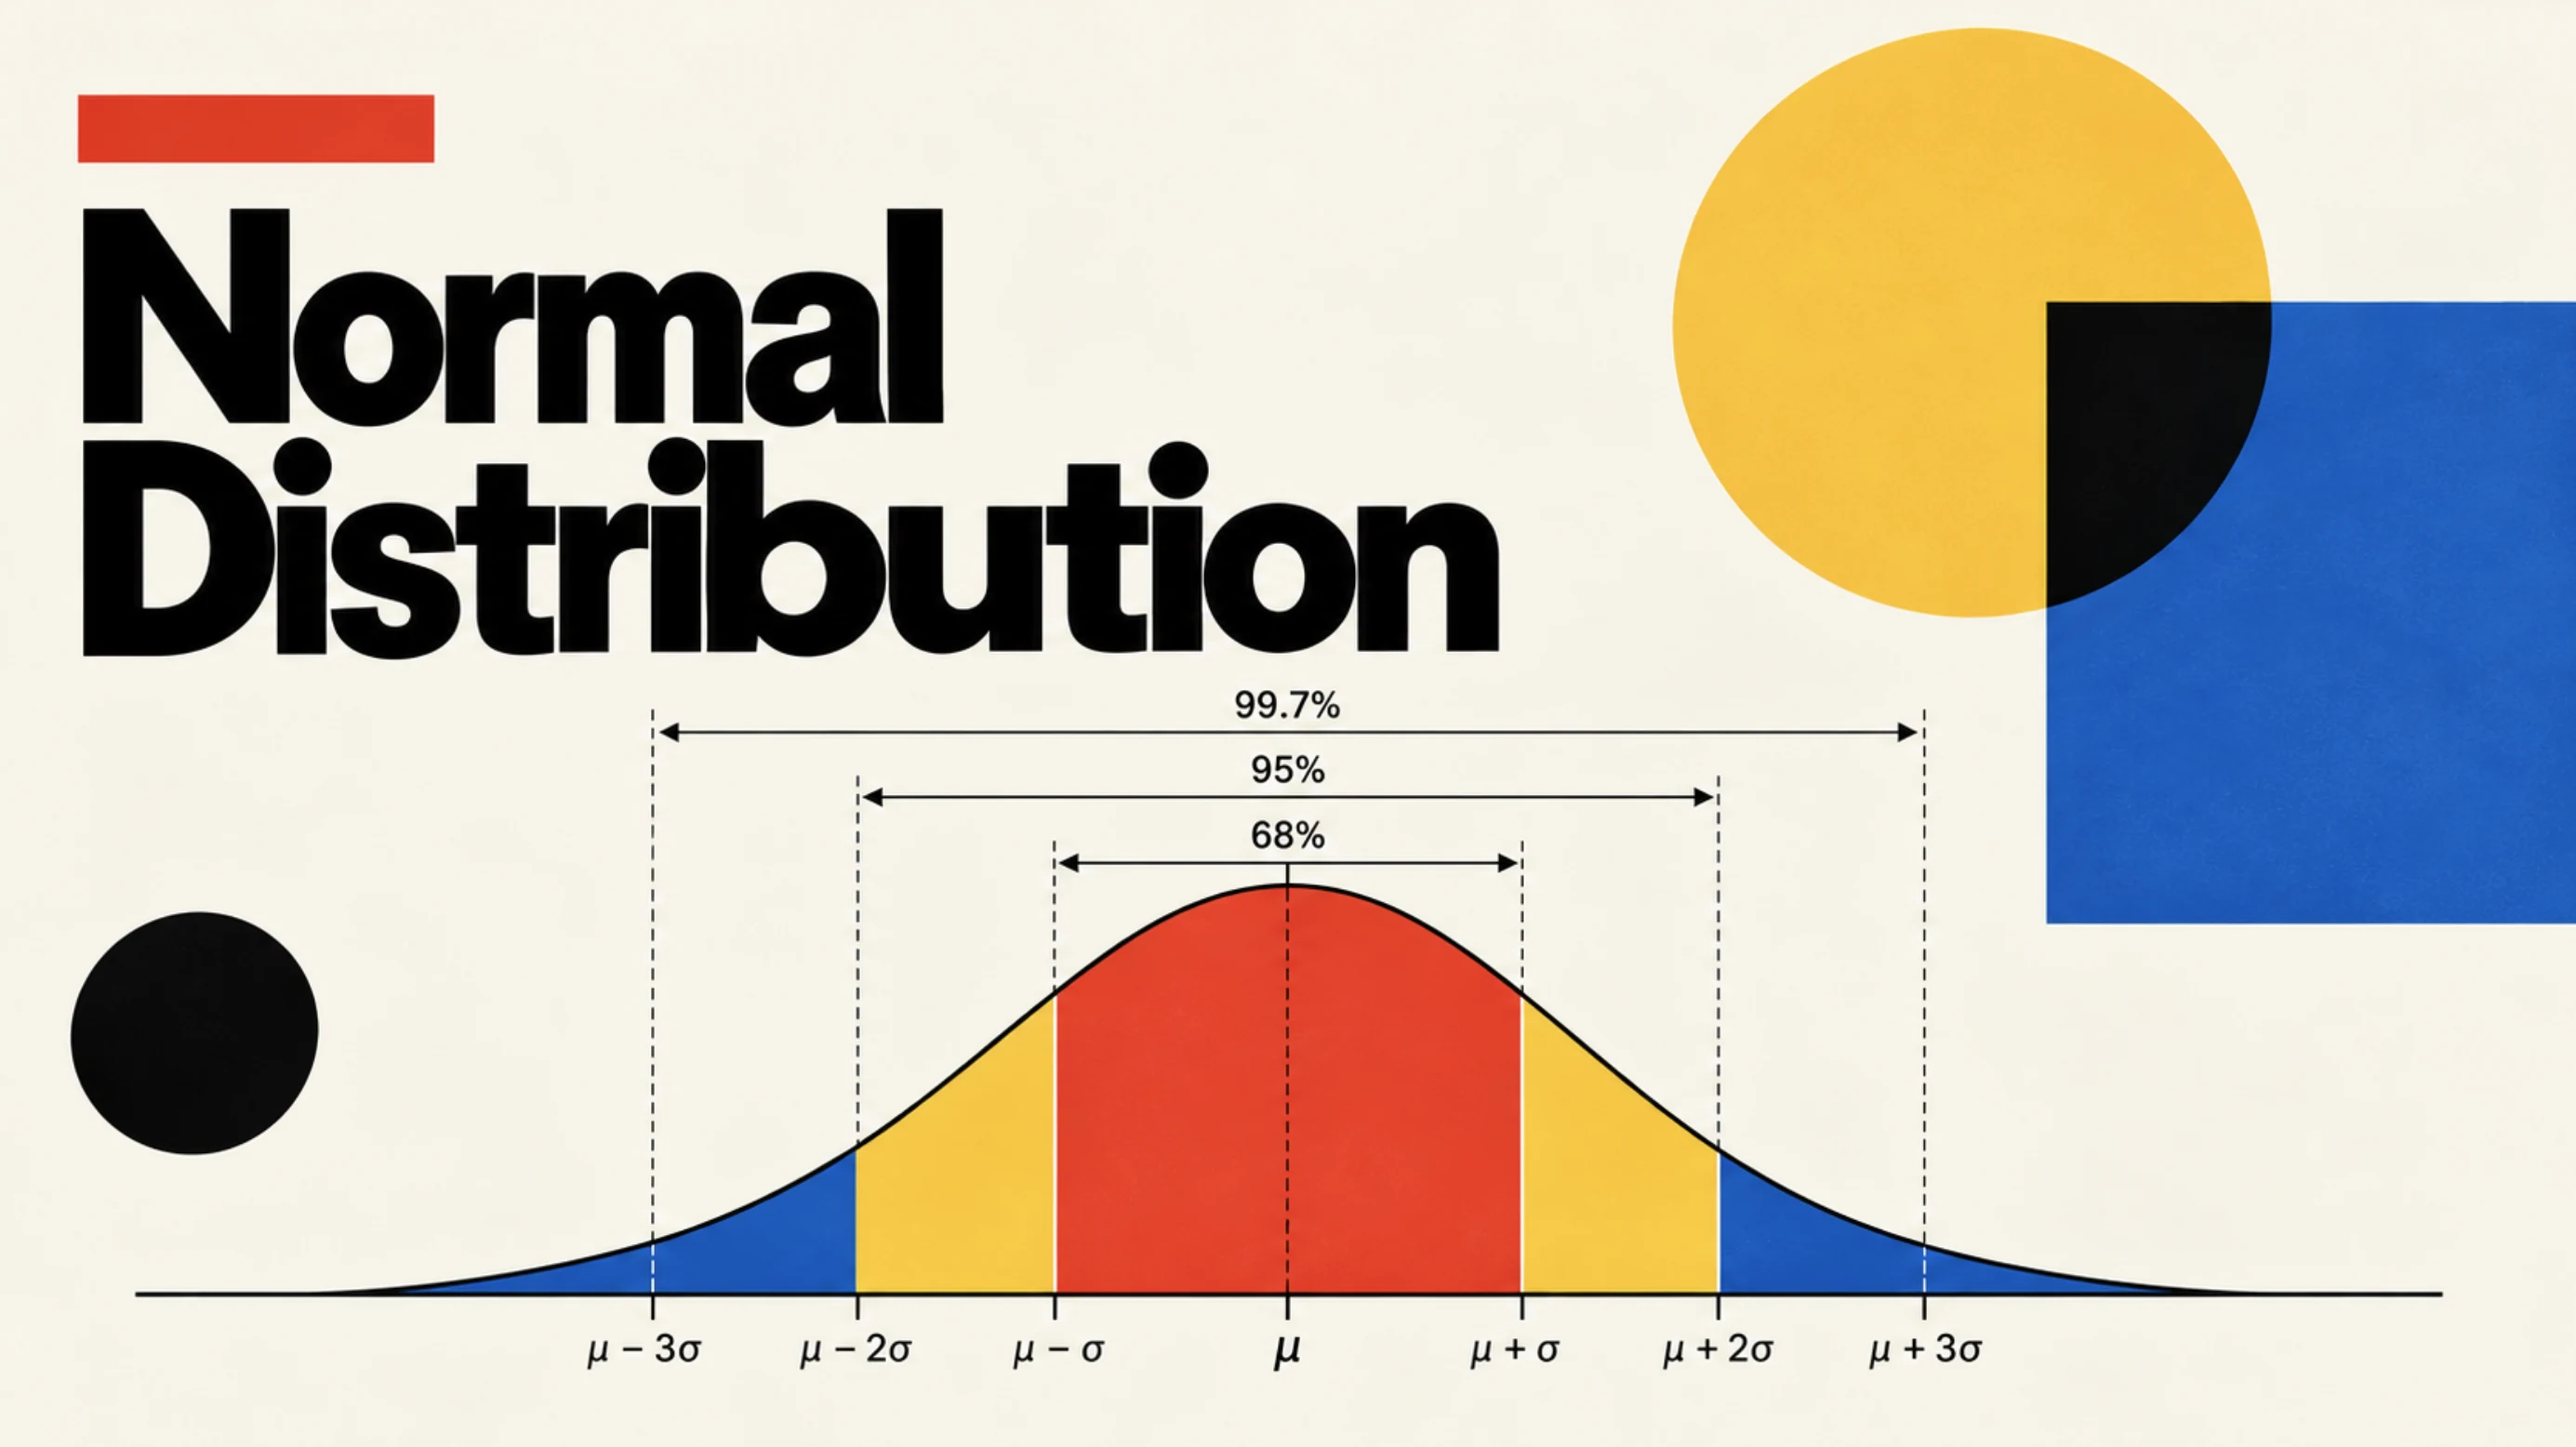
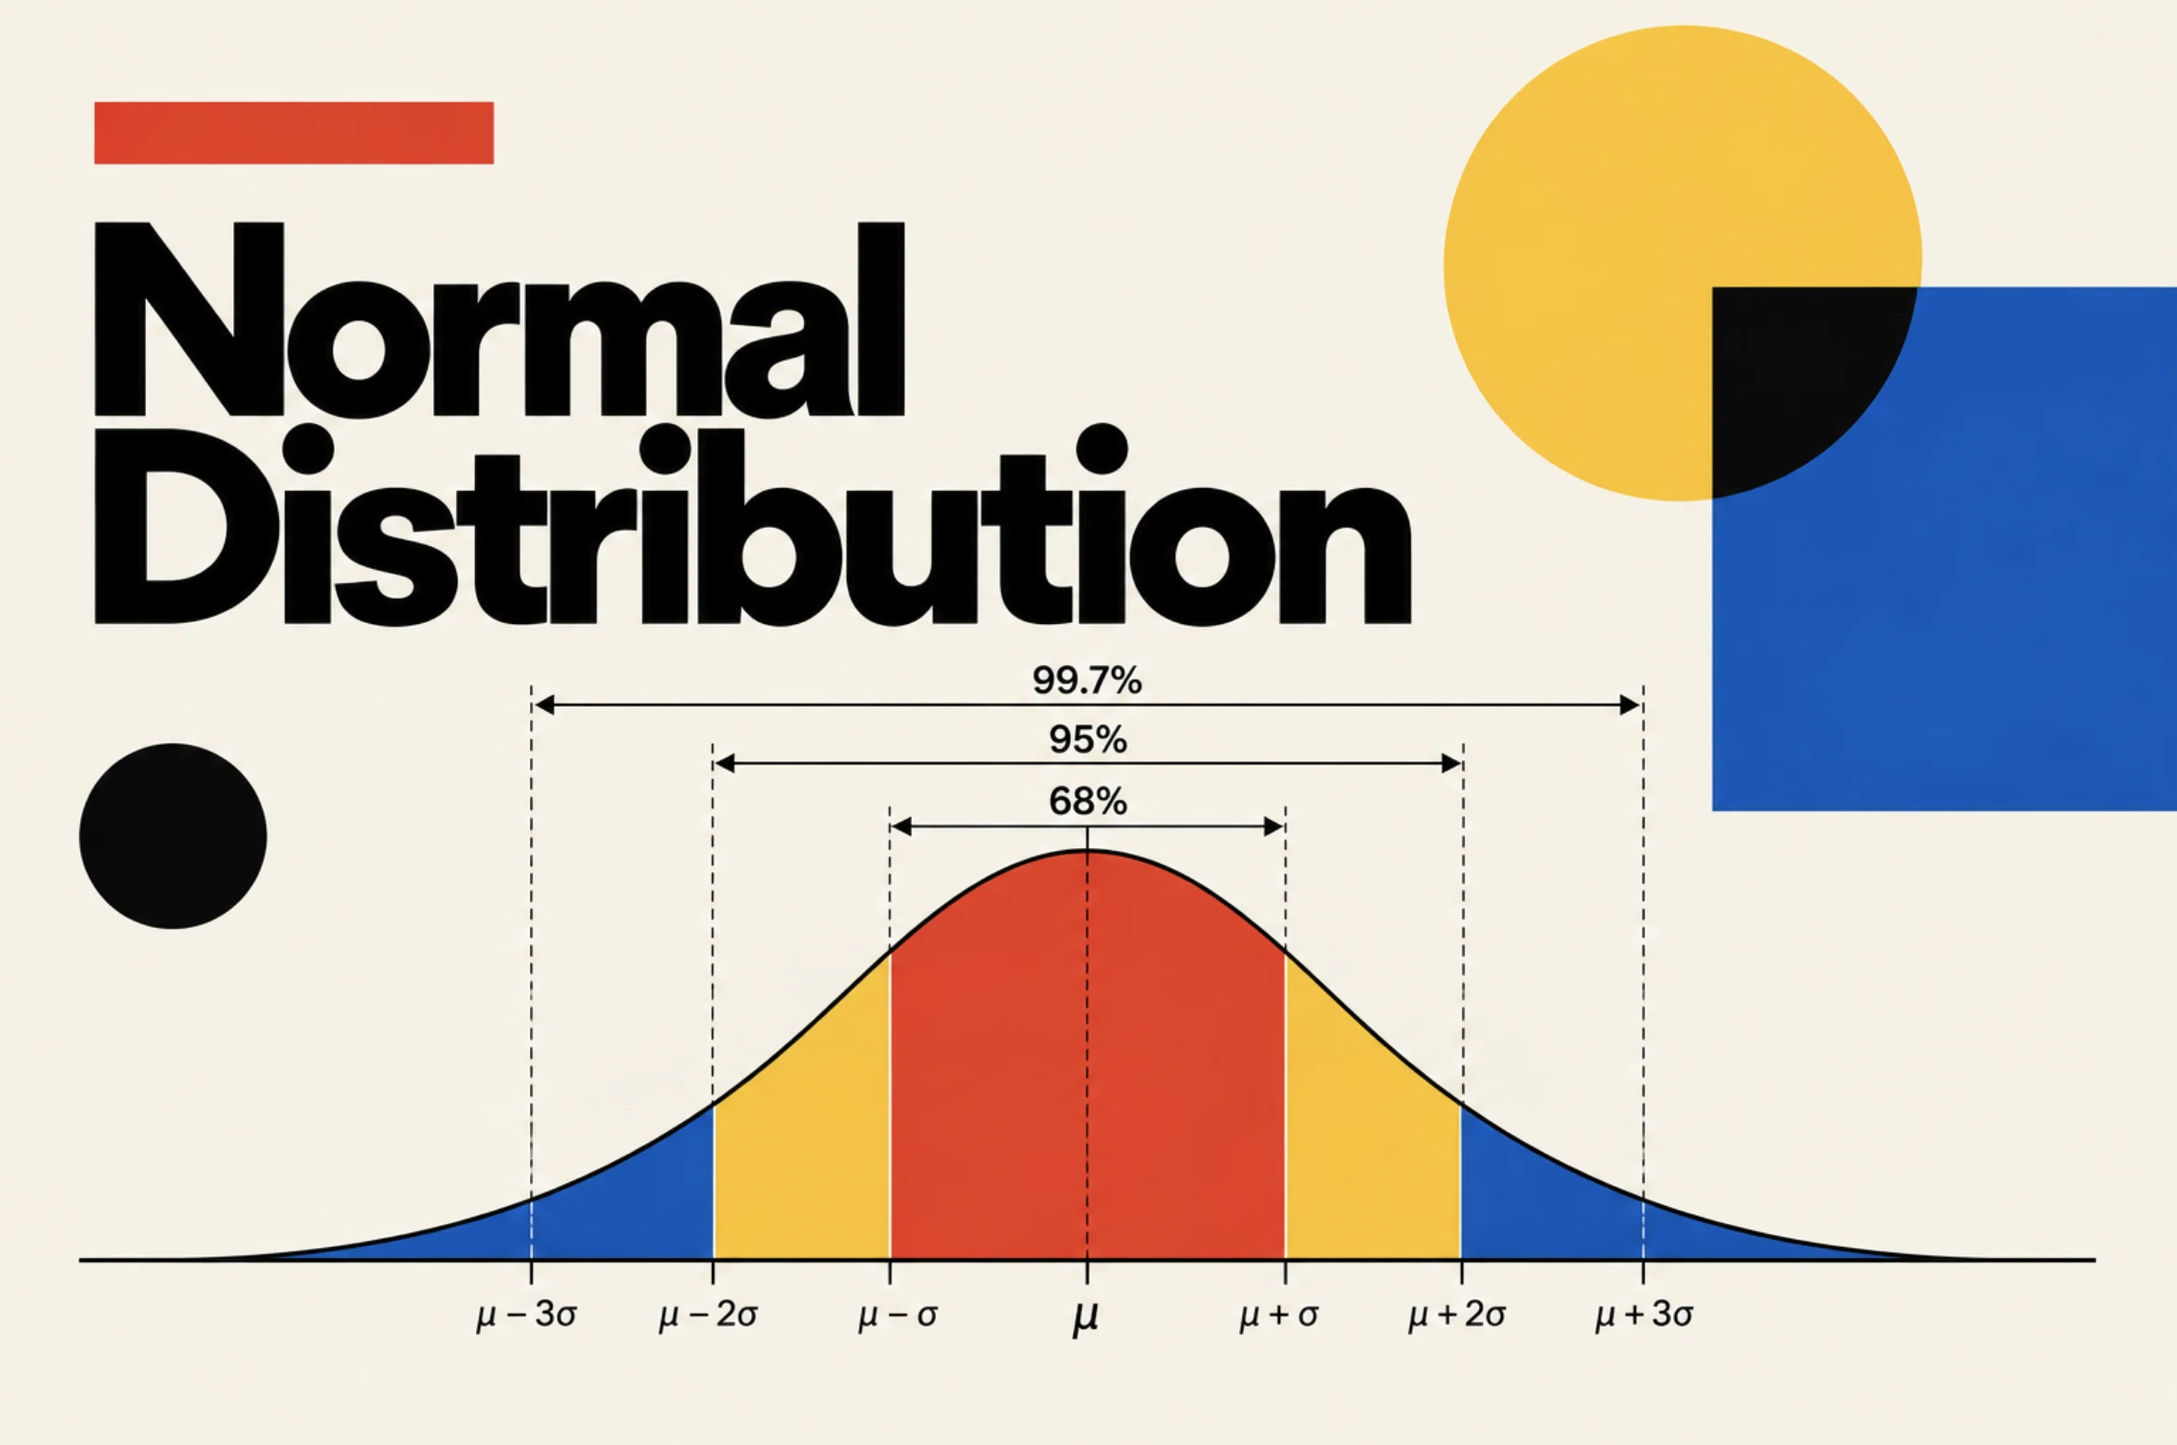
Use the 3:2 Normal Distribution cover
New cover matches the other Probability covers, so it fills the
Statistics card without cropping. Remove the left-anchor workaround.

Claude-Session: https://claude.ai/code/session_01Jbm3VhusLo5wUxgUA6YqSw

diff --git a/normal-distribution.html b/normal-distribution.html
@@ -8,7 +8,7 @@
   <link rel="preconnect" href="https://fonts.googleapis.com">
   <link rel="preconnect" href="https://fonts.gstatic.com" crossorigin>
   <link href="https://fonts.googleapis.com/css2?family=Inter:wght@400;500;600;700&display=swap" rel="stylesheet">
-  <link rel="stylesheet" href="style.css?v=20261008f">
+  <link rel="stylesheet" href="style.css?v=20261008g">
 </head>
 <body>
 
@@ -35,7 +35,7 @@
   <h1 class="post-title">Normal Distribution</h1>
 
   <figure class="post-cover">
-    <img src="images/normal-distribution-cover.webp" alt="Normal Distribution: a bell curve with the areas within 1, 2 and 3 standard deviations of the mean marked as 68%, 95% and 99.7%" width="2770" height="1556">
+    <img src="images/normal-distribution-cover.webp" alt="Normal Distribution: a bell curve with the areas within 1, 2 and 3 standard deviations of the mean marked as 68%, 95% and 99.7%" width="2342" height="1554">
   </figure>
 
   <p>Most people have seen the bell curve before. Knowing what it looks like is not the same as knowing what it tells you. This post starts with how any continuous distribution works, then looks at the normal distribution and the empirical rule, and ends with a simple way to spot outliers. It builds on <a href="random-variables-distributions.html">Random Variables &amp; Probability Distributions</a> and <a href="discrete-distributions.html">Four Common Discrete Distributions</a>.</p>

diff --git a/statistics.html b/statistics.html
@@ -8,7 +8,7 @@
   <link rel="preconnect" href="https://fonts.googleapis.com">
   <link rel="preconnect" href="https://fonts.gstatic.com" crossorigin>
   <link href="https://fonts.googleapis.com/css2?family=Inter:wght@400;500;600;700&display=swap" rel="stylesheet">
-  <link rel="stylesheet" href="style.css?v=20261008f">
+  <link rel="stylesheet" href="style.css?v=20261008g">
 </head>
 <body>
 
@@ -124,7 +124,7 @@
       </a>
 
       <a class="project-card" href="normal-distribution.html">
-        <span class="project-card-img"><img src="images/normal-distribution-cover.webp" alt="Normal Distribution: a bell curve with the areas within 1, 2 and 3 standard deviations marked as 68%, 95% and 99.7%" width="2770" height="1556" loading="lazy"></span>
+        <span class="project-card-img"><img src="images/normal-distribution-cover.webp" alt="Normal Distribution: a bell curve with the areas within 1, 2 and 3 standard deviations marked as 68%, 95% and 99.7%" width="2342" height="1554" loading="lazy"></span>
         <span class="project-card-body">
           <span class="project-type">Probability</span>
           <span class="project-title">Normal Distribution</span>

diff --git a/style.css b/style.css
@@ -1624,7 +1624,6 @@ main > article.post { max-width: 760px; margin: 0 auto; padding: 64px 24px 96px;
 .knowledge-page .project-card-img { aspect-ratio: 3 / 2; }
 .knowledge-page .project-card-img img { object-position: center; }
 .knowledge-page a[href="datenviz-eda.html"] .project-card-img img { object-position: left center; }
-.knowledge-page a[href="normal-distribution.html"] .project-card-img img { object-position: left center; }
 .knowledge-page a[href="ab-testing.html"] .project-card-img { background: #f4f2ee; }
 .knowledge-page a[href="ab-testing.html"] .project-card-img img { object-fit: contain; }
 
